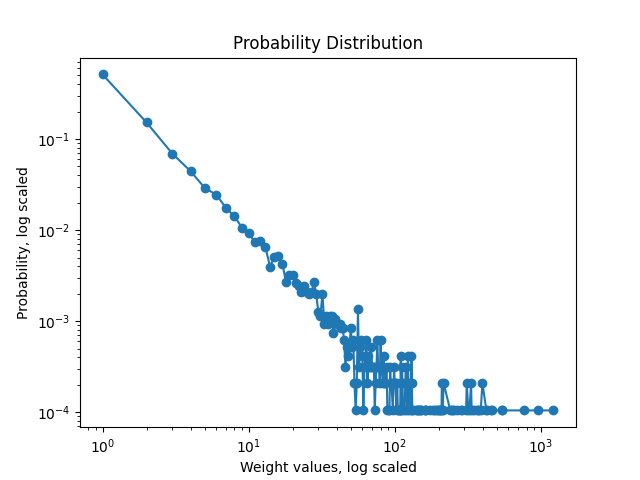
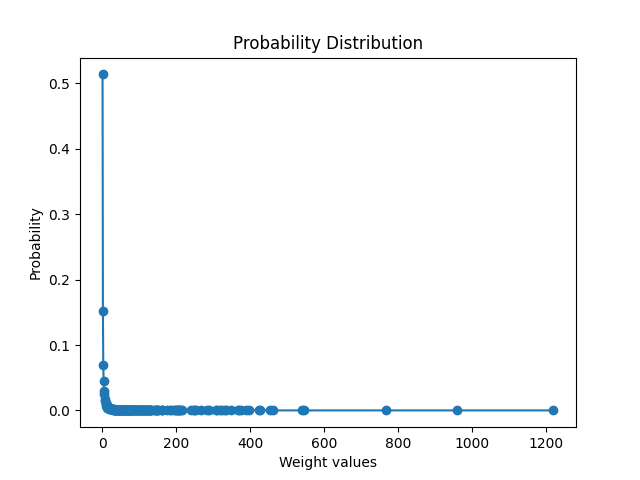
part a correction

diff --git a/topological_properties.py b/topological_properties.py
@@ -34,12 +34,23 @@ def plot_probability(dictionary):
     weight_values, probabilities = zip(*sorted_probabilities)
 
     plt.plot(weight_values, probabilities, marker='o', linestyle='-')
-    plt.xscale('log')
-    plt.yscale('log')
-    plt.xlabel('Weight values, log scaled')
-    plt.ylabel('Probability, log scaled')
+
+    # plt.xscale('log')
+    # plt.yscale('log')
+    plt.xlabel('Weight values')
+    plt.ylabel('Probability')
     plt.title('Probability Distribution')
     plt.savefig('a_7.png')
+    plt.show()
+
+    plt.plot(weight_values, probabilities, marker='o', linestyle='-')
+
+    plt.xscale('log')
+    plt.yscale('log')
+    plt.xlabel('Weight values (log scaled)')
+    plt.ylabel('Probability (log scaled)')
+    plt.title('Probability Distribution')
+    plt.savefig('a_7_log.png')
     plt.show()
 
 
@@ -79,7 +90,7 @@ if __name__ == "__main__":
     # PART A.1
     print('Number of nodes: ', len(nodes))  # 403
     print('Number of links: ', len(edges))  # 70261
-    print('Average degree: ', sum(degrees) / len(degrees))  # 347.8267326732673
+    print('Average degree: ', 2 * len(edges)/len(nodes))  # 347.8267326732673
     print('Standard deviation: ', np.std(np.array(degrees)))  # 377.2790805649033
 
     # PART A.2
@@ -94,7 +105,7 @@ if __name__ == "__main__":
         degree_frequency[key] = float(value/len(nodes))
     plt.plot(list(degree_frequency.keys()), list(degree_frequency.values()), marker='^', linestyle='-')
     plt.xlabel('Degree')
-    plt.ylabel('P(degree)')
+    plt.ylabel('P(degree) - probability of degree')
     plt.title('Degree Distribution')
     plt.savefig('a_2.png')
     plt.show()
@@ -106,7 +117,17 @@ if __name__ == "__main__":
     print('Clustering coefficient: ', network.transitivity_undirected())  # 0.23590263303822398
 
     # PART A.5
+    # TODO check this
     print('Average hop count: ', network.average_path_length())  # 1.9530140858980531
+    sh = 0
+    pairs = 0
+    max = 0
+    for node1 in list(nodes)[:-1]:
+        for node2 in list(nodes)[1:]:
+            pairs += 1
+            sh += len(network.get_shortest_paths(node1, to=node2)[0]) - 1
+    print(sh/pairs)
+    print(max)
     print('Diameter : ', network.diameter())  # 4
 
     # PART A.7

diff --git a/Report.MD b/Report.MD
@@ -1,6 +1,6 @@
 # Modelling and Data analysis in Complex systems report
 ## Group information
-Group 1
+Assignment Group 1
 
 | Name            | Student number |
 |------           |----------------|
@@ -9,22 +9,23 @@ Group 1
 | Marco Bak       | 5066212 |
 
 ## Assignments
+For the assignment we consider edge (0, 1) and edge (1, 0) - the same edge, as it is stated that graph is undirected. Furthermore, it does not matter how often edge appears in the file - this information influence only weight, not number of edges.
 ### A.1
 Number of nodes is: 403. \
-Number of links is: 9889. \
-Average degree is: 48.95. \
-Standard deviation of the degree is: 31.71
+Number of links is: 9565. \
+Average degree is: 47.47. \
+Standard deviation of the degree is: 30.14
 
 ### A.2
 ![Degree distribution of the network](./a_2.png)
 
-A scale free graph has a power law degree distribution and an ER random graph has a posson degree distribution.
+A scale free graph has a power law degree distribution and an ER random graph has a poisson degree distribution.
 The degree distribution of our network is much more like a poisson graph.
-This means that an ER random graph is more suitable to model our network.
+This means that an **ER random graph** is more suitable to model our network.
 
 ### A.3
-The assortative degree corelation of the graph is -0.0693, which is close, but just below zero. This means that the graph is mainly non-assorsative, with a realy small prefference to disassorsative.
-In the real world this means that the nodes have no prefference in having links with similar or dissimilar nodes. 
+The assortative degree correlation of the graph is -0.08, which is close, but just below zero. Degree correlation shows whether nodes with similar degree correlate. 
+For the graph, this means that it is mainly non-assortative, with a small tendency to be disassortative. This means that the nodes have no preference to connect to nodes with similar degree and have a small preference to connect to nodes with different degree.
 
 ### A.4
 The clustering coefficient C of G is 0.2359
@@ -38,3 +39,9 @@ Small world graphs are defined by a high clustering coefficient, and low distanc
 The clustering coefficient is a value between 0 and 1, where a value close to one suggests a small world graph.
 While the average hopcount and diameter are relatively small, which could suggest a small world property, the clustering coefficient is quite low to really suggest this.
 So this graph most likely has no small world property.
+
+### A.7
+![Weight distribution of the network](./a_7.png)
+The graph is similar to power law function. To check it, we plot it on log-log scale:
+![Weight distribution_log of the network](./a_7_log.png)
+We can see relatively straight line at the beginning, which then becomes more noisy and becomes horizontal. However, it looks like horizontal due to very low probabilities very close to 0. As vertical scale is quite big, the difference is not reflected in the graph. Based on two graphs, we think distribution follows power law.
